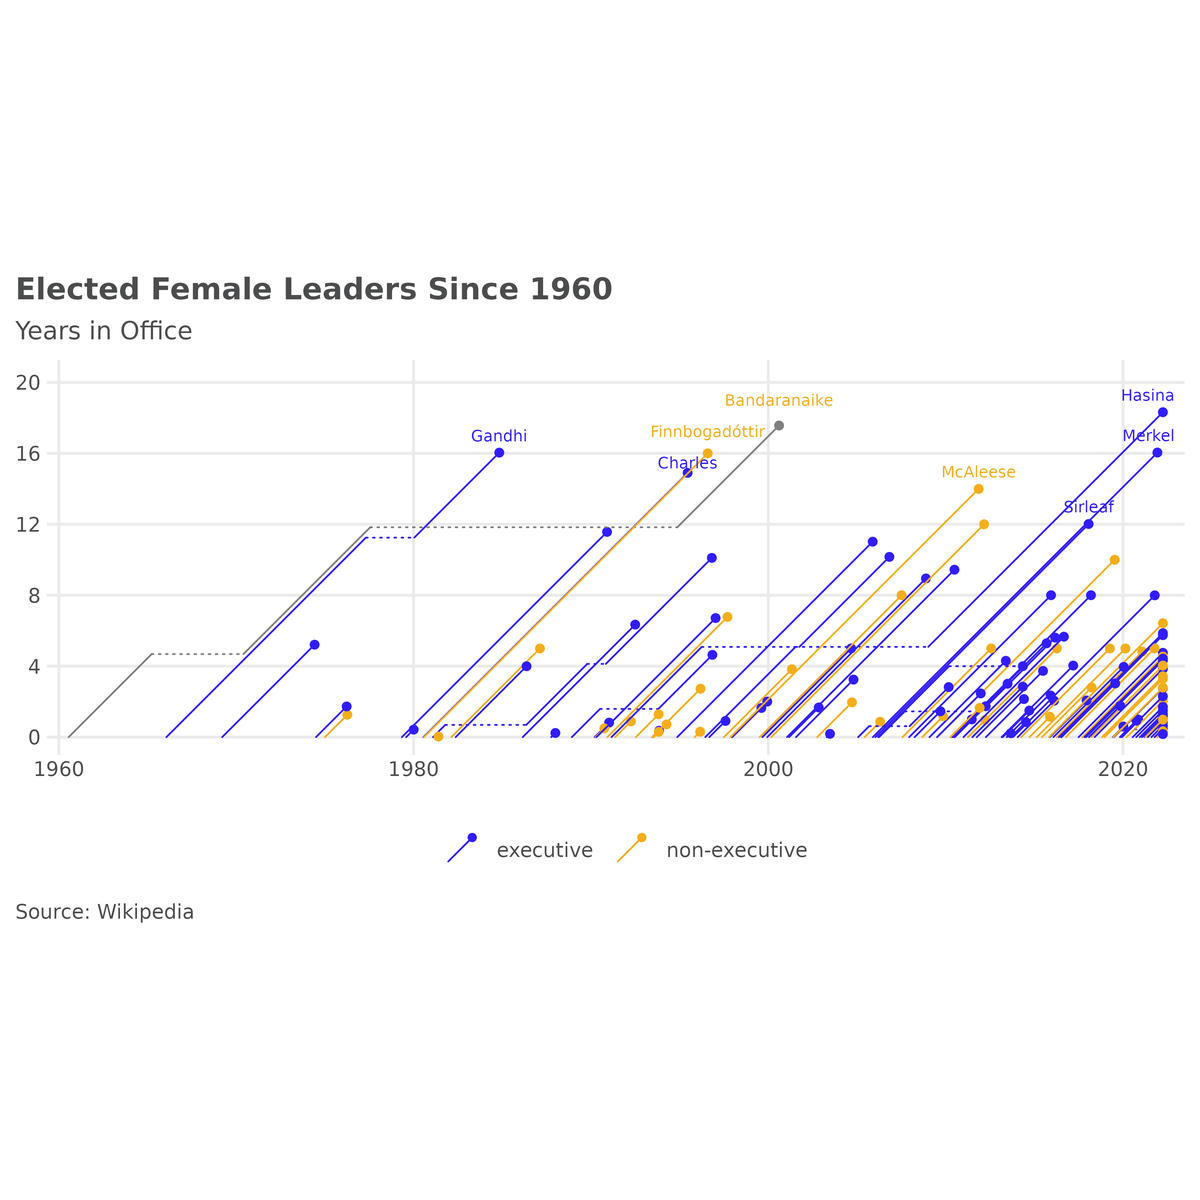
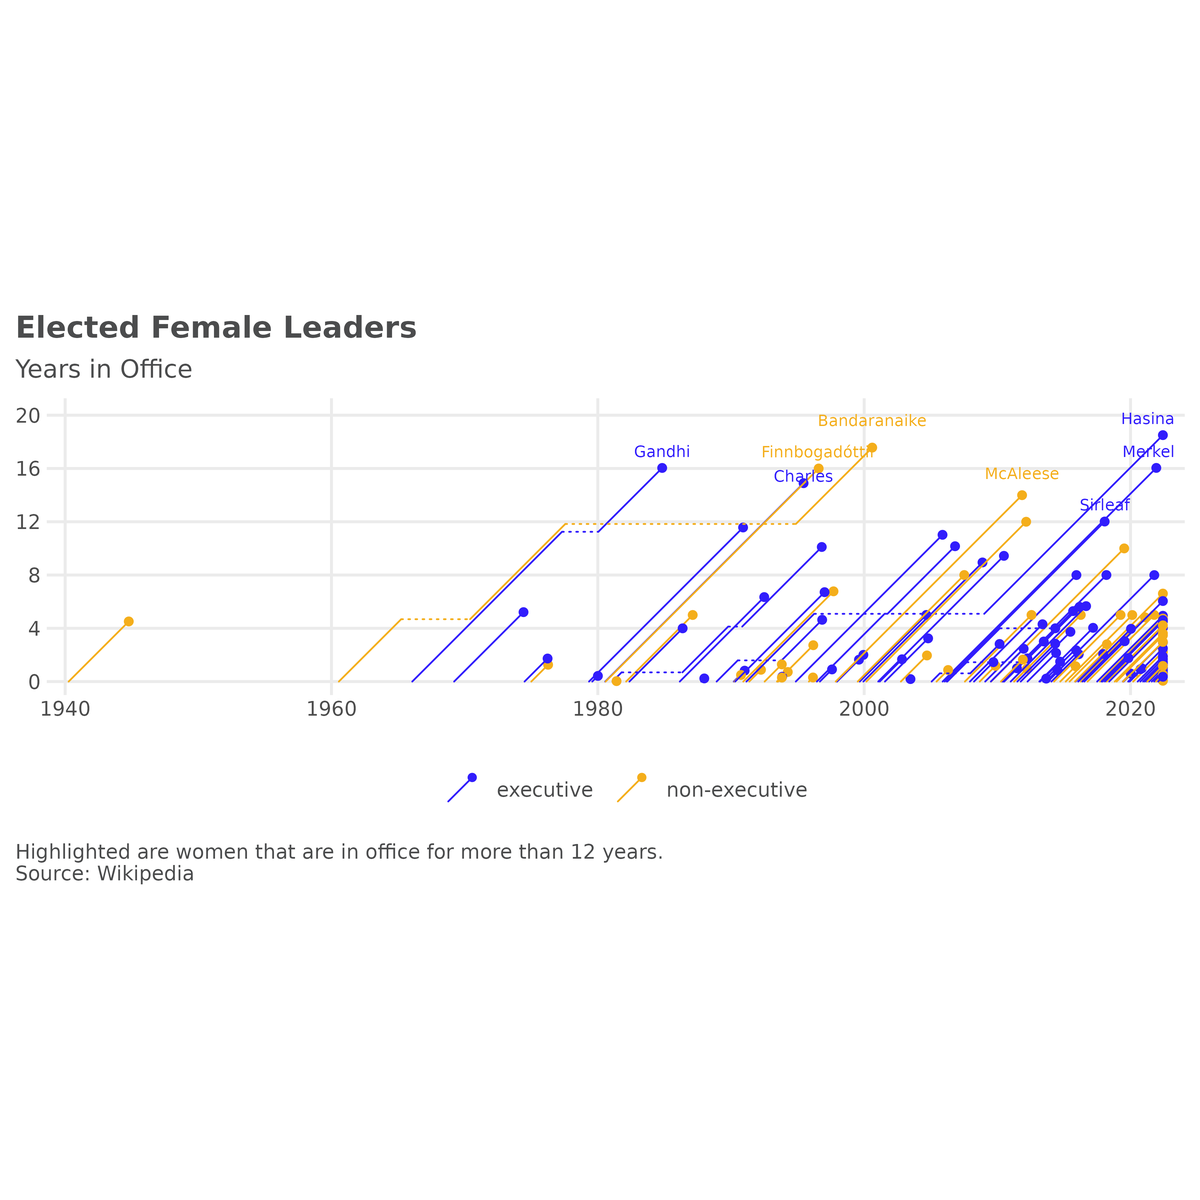
Built site for ggpointless: 0.0.1.9000@59ed15e

diff --git a/reference/ggpointless-package.html b/reference/ggpointless-package.html
@@ -1,7 +1,7 @@
 <!DOCTYPE html>
 <!-- Generated by pkgdown: do not edit by hand --><html lang="en"><head><meta http-equiv="Content-Type" content="text/html; charset=UTF-8"><meta charset="utf-8"><meta http-equiv="X-UA-Compatible" content="IE=edge"><meta name="viewport" content="width=device-width, initial-scale=1, shrink-to-fit=no"><meta name="description" content="
-A collection of new geometries, and stats for 'ggplot2'. geom_pointless() adds minimal emphasis to your plots making it easy to highlight some observations. This layer provides additional context. Or just some visual sugar. geom_lexis() draws a 45° lifeline of an event that mimics lexis diagrams."><title>ggpointless: A Small Collection of New Geometries, and Stats for 'ggplot2' — ggpointless-package • ggpointless</title><!-- favicons --><link rel="icon" type="image/png" sizes="16x16" href="../favicon-16x16.png"><link rel="icon" type="image/png" sizes="32x32" href="../favicon-32x32.png"><link rel="apple-touch-icon" type="image/png" sizes="180x180" href="../apple-touch-icon.png"><link rel="apple-touch-icon" type="image/png" sizes="120x120" href="../apple-touch-icon-120x120.png"><link rel="apple-touch-icon" type="image/png" sizes="76x76" href="../apple-touch-icon-76x76.png"><link rel="apple-touch-icon" type="image/png" sizes="60x60" href="../apple-touch-icon-60x60.png"><script src="../deps/jquery-3.6.0/jquery-3.6.0.min.js"></script><meta name="viewport" content="width=device-width, initial-scale=1, shrink-to-fit=no"><link href="../deps/bootstrap-5.1.0/bootstrap.min.css" rel="stylesheet"><script src="../deps/bootstrap-5.1.0/bootstrap.bundle.min.js"></script><link href="../deps/_Lato-0.4.1/font.css" rel="stylesheet"><link href="../deps/_Fira%20Code-0.4.1/font.css" rel="stylesheet"><!-- Font Awesome icons --><link rel="stylesheet" href="https://cdnjs.cloudflare.com/ajax/libs/font-awesome/5.12.1/css/all.min.css" integrity="sha256-mmgLkCYLUQbXn0B1SRqzHar6dCnv9oZFPEC1g1cwlkk=" crossorigin="anonymous"><link rel="stylesheet" href="https://cdnjs.cloudflare.com/ajax/libs/font-awesome/5.12.1/css/v4-shims.min.css" integrity="sha256-wZjR52fzng1pJHwx4aV2AO3yyTOXrcDW7jBpJtTwVxw=" crossorigin="anonymous"><!-- bootstrap-toc --><script src="https://cdn.rawgit.com/afeld/bootstrap-toc/v1.0.1/dist/bootstrap-toc.min.js"></script><!-- headroom.js --><script src="https://cdnjs.cloudflare.com/ajax/libs/headroom/0.11.0/headroom.min.js" integrity="sha256-AsUX4SJE1+yuDu5+mAVzJbuYNPHj/WroHuZ8Ir/CkE0=" crossorigin="anonymous"></script><script src="https://cdnjs.cloudflare.com/ajax/libs/headroom/0.11.0/jQuery.headroom.min.js" integrity="sha256-ZX/yNShbjqsohH1k95liqY9Gd8uOiE1S4vZc+9KQ1K4=" crossorigin="anonymous"></script><!-- clipboard.js --><script src="https://cdnjs.cloudflare.com/ajax/libs/clipboard.js/2.0.6/clipboard.min.js" integrity="sha256-inc5kl9MA1hkeYUt+EC3BhlIgyp/2jDIyBLS6k3UxPI=" crossorigin="anonymous"></script><!-- search --><script src="https://cdnjs.cloudflare.com/ajax/libs/fuse.js/6.4.6/fuse.js" integrity="sha512-zv6Ywkjyktsohkbp9bb45V6tEMoWhzFzXis+LrMehmJZZSys19Yxf1dopHx7WzIKxr5tK2dVcYmaCk2uqdjF4A==" crossorigin="anonymous"></script><script src="https://cdnjs.cloudflare.com/ajax/libs/autocomplete.js/0.38.0/autocomplete.jquery.min.js" integrity="sha512-GU9ayf+66Xx2TmpxqJpliWbT5PiGYxpaG8rfnBEk1LL8l1KGkRShhngwdXK1UgqhAzWpZHSiYPc09/NwDQIGyg==" crossorigin="anonymous"></script><script src="https://cdnjs.cloudflare.com/ajax/libs/mark.js/8.11.1/mark.min.js" integrity="sha512-5CYOlHXGh6QpOFA/TeTylKLWfB3ftPsde7AnmhuitiTX4K5SqCLBeKro6sPS8ilsz1Q4NRx3v8Ko2IBiszzdww==" crossorigin="anonymous"></script><!-- pkgdown --><script src="../pkgdown.js"></script><meta property="og:title" content="ggpointless: A Small Collection of New Geometries, and Stats for 'ggplot2' — ggpointless-package"><meta property="og:description" content="
-A collection of new geometries, and stats for 'ggplot2'. geom_pointless() adds minimal emphasis to your plots making it easy to highlight some observations. This layer provides additional context. Or just some visual sugar. geom_lexis() draws a 45° lifeline of an event that mimics lexis diagrams."><meta property="og:image" content="https://flrd.github.io/ggpointless/logo.png"><!-- mathjax --><script src="https://cdnjs.cloudflare.com/ajax/libs/mathjax/2.7.5/MathJax.js" integrity="sha256-nvJJv9wWKEm88qvoQl9ekL2J+k/RWIsaSScxxlsrv8k=" crossorigin="anonymous"></script><script src="https://cdnjs.cloudflare.com/ajax/libs/mathjax/2.7.5/config/TeX-AMS-MML_HTMLorMML.js" integrity="sha256-84DKXVJXs0/F8OTMzX4UR909+jtl4G7SPypPavF+GfA=" crossorigin="anonymous"></script><!--[if lt IE 9]>
+A collection of new geometries and stats for 'ggplot2'. geom_pointless() adds minimal emphasis to your plots making it easy to highlight some observations. This layer provides additional context. Or just some visual sugar. geom_lexis() draws a 45° lifeline of an event that mimics lexis diagrams."><title>ggpointless: A Small Collection of New Geometries, and Stats for 'ggplot2' — ggpointless-package • ggpointless</title><!-- favicons --><link rel="icon" type="image/png" sizes="16x16" href="../favicon-16x16.png"><link rel="icon" type="image/png" sizes="32x32" href="../favicon-32x32.png"><link rel="apple-touch-icon" type="image/png" sizes="180x180" href="../apple-touch-icon.png"><link rel="apple-touch-icon" type="image/png" sizes="120x120" href="../apple-touch-icon-120x120.png"><link rel="apple-touch-icon" type="image/png" sizes="76x76" href="../apple-touch-icon-76x76.png"><link rel="apple-touch-icon" type="image/png" sizes="60x60" href="../apple-touch-icon-60x60.png"><script src="../deps/jquery-3.6.0/jquery-3.6.0.min.js"></script><meta name="viewport" content="width=device-width, initial-scale=1, shrink-to-fit=no"><link href="../deps/bootstrap-5.1.0/bootstrap.min.css" rel="stylesheet"><script src="../deps/bootstrap-5.1.0/bootstrap.bundle.min.js"></script><link href="../deps/_Lato-0.4.1/font.css" rel="stylesheet"><link href="../deps/_Fira%20Code-0.4.1/font.css" rel="stylesheet"><!-- Font Awesome icons --><link rel="stylesheet" href="https://cdnjs.cloudflare.com/ajax/libs/font-awesome/5.12.1/css/all.min.css" integrity="sha256-mmgLkCYLUQbXn0B1SRqzHar6dCnv9oZFPEC1g1cwlkk=" crossorigin="anonymous"><link rel="stylesheet" href="https://cdnjs.cloudflare.com/ajax/libs/font-awesome/5.12.1/css/v4-shims.min.css" integrity="sha256-wZjR52fzng1pJHwx4aV2AO3yyTOXrcDW7jBpJtTwVxw=" crossorigin="anonymous"><!-- bootstrap-toc --><script src="https://cdn.rawgit.com/afeld/bootstrap-toc/v1.0.1/dist/bootstrap-toc.min.js"></script><!-- headroom.js --><script src="https://cdnjs.cloudflare.com/ajax/libs/headroom/0.11.0/headroom.min.js" integrity="sha256-AsUX4SJE1+yuDu5+mAVzJbuYNPHj/WroHuZ8Ir/CkE0=" crossorigin="anonymous"></script><script src="https://cdnjs.cloudflare.com/ajax/libs/headroom/0.11.0/jQuery.headroom.min.js" integrity="sha256-ZX/yNShbjqsohH1k95liqY9Gd8uOiE1S4vZc+9KQ1K4=" crossorigin="anonymous"></script><!-- clipboard.js --><script src="https://cdnjs.cloudflare.com/ajax/libs/clipboard.js/2.0.6/clipboard.min.js" integrity="sha256-inc5kl9MA1hkeYUt+EC3BhlIgyp/2jDIyBLS6k3UxPI=" crossorigin="anonymous"></script><!-- search --><script src="https://cdnjs.cloudflare.com/ajax/libs/fuse.js/6.4.6/fuse.js" integrity="sha512-zv6Ywkjyktsohkbp9bb45V6tEMoWhzFzXis+LrMehmJZZSys19Yxf1dopHx7WzIKxr5tK2dVcYmaCk2uqdjF4A==" crossorigin="anonymous"></script><script src="https://cdnjs.cloudflare.com/ajax/libs/autocomplete.js/0.38.0/autocomplete.jquery.min.js" integrity="sha512-GU9ayf+66Xx2TmpxqJpliWbT5PiGYxpaG8rfnBEk1LL8l1KGkRShhngwdXK1UgqhAzWpZHSiYPc09/NwDQIGyg==" crossorigin="anonymous"></script><script src="https://cdnjs.cloudflare.com/ajax/libs/mark.js/8.11.1/mark.min.js" integrity="sha512-5CYOlHXGh6QpOFA/TeTylKLWfB3ftPsde7AnmhuitiTX4K5SqCLBeKro6sPS8ilsz1Q4NRx3v8Ko2IBiszzdww==" crossorigin="anonymous"></script><!-- pkgdown --><script src="../pkgdown.js"></script><meta property="og:title" content="ggpointless: A Small Collection of New Geometries, and Stats for 'ggplot2' — ggpointless-package"><meta property="og:description" content="
+A collection of new geometries and stats for 'ggplot2'. geom_pointless() adds minimal emphasis to your plots making it easy to highlight some observations. This layer provides additional context. Or just some visual sugar. geom_lexis() draws a 45° lifeline of an event that mimics lexis diagrams."><meta property="og:image" content="https://flrd.github.io/ggpointless/logo.png"><!-- mathjax --><script src="https://cdnjs.cloudflare.com/ajax/libs/mathjax/2.7.5/MathJax.js" integrity="sha256-nvJJv9wWKEm88qvoQl9ekL2J+k/RWIsaSScxxlsrv8k=" crossorigin="anonymous"></script><script src="https://cdnjs.cloudflare.com/ajax/libs/mathjax/2.7.5/config/TeX-AMS-MML_HTMLorMML.js" integrity="sha256-84DKXVJXs0/F8OTMzX4UR909+jtl4G7SPypPavF+GfA=" crossorigin="anonymous"></script><!--[if lt IE 9]>
 <script src="https://oss.maxcdn.com/html5shiv/3.7.3/html5shiv.min.js"></script>
 <script src="https://oss.maxcdn.com/respond/1.4.2/respond.min.js"></script>
 <![endif]--></head><body>
@@ -58,7 +58,7 @@ A collection of new geometries, and stats for 'ggplot2'. geom_pointless() adds m
 
     <div class="ref-description section level2">
     <p><img src="figures/logo.png" align="right" alt="logo" width="120"></p>
-<p>A collection of new geometries, and stats for 'ggplot2'. geom_pointless() adds minimal emphasis to your plots making it easy to highlight some observations. This layer provides additional context. Or just some visual sugar. geom_lexis() draws a 45° lifeline of an event that mimics lexis diagrams.</p>
+<p>A collection of new geometries and stats for 'ggplot2'. geom_pointless() adds minimal emphasis to your plots making it easy to highlight some observations. This layer provides additional context. Or just some visual sugar. geom_lexis() draws a 45° lifeline of an event that mimics lexis diagrams.</p>
     </div>
 
 

diff --git a/articles/examples.html b/articles/examples.html
@@ -362,9 +362,17 @@
 <h2 id="female-leaders-of-independent-states">Female leaders of independent states<a class="anchor" aria-label="anchor" href="#female-leaders-of-independent-states"></a>
 </h2>
 <p>The data used here comes from the Wikipedia article <a href="https://en.wikipedia.org/w/index.php?title=List_of_elected_and_appointed_female_heads_of_state_and_government&amp;oldid=1078024588" class="external-link">List of elected and appointed female heads of state and government</a> and is collected in the dataset <code>female_leaders</code>.</p>
-<p>Before we plot, a bit of work needs to answer the question: which women are in office for more than 12 years?</p>
+<p>Before we plot, we want to answer the question: which women are in office for more than 12 years?</p>
 <div class="sourceCode" id="cb10"><pre class="downlit sourceCode r">
-<code class="sourceCode R"><span class="va">tmp</span> <span class="op">&lt;-</span> <span class="fu"><a href="https://rdrr.io/r/stats/aggregate.html" class="external-link">aggregate</a></span><span class="op">(</span>
+<code class="sourceCode R"><span class="co"># Sirimavo Bandaranaike was both in executive and non-executive position</span>
+<span class="co"># setting power to last observation by person</span>
+<span class="va">female_leaders</span> <span class="op">&lt;-</span> <span class="fu"><a href="https://rdrr.io/r/base/merge.html" class="external-link">merge</a></span><span class="op">(</span>
+  <span class="va">female_leaders</span><span class="op">[</span>, <span class="fu"><a href="https://rdrr.io/r/base/c.html" class="external-link">c</a></span><span class="op">(</span><span class="st">"name"</span>, <span class="st">"startdate"</span>, <span class="st">"enddate"</span>, <span class="st">"country"</span><span class="op">)</span>, <span class="op">]</span>,
+  <span class="fu"><a href="https://rdrr.io/r/stats/aggregate.html" class="external-link">aggregate</a></span><span class="op">(</span><span class="va">.</span> <span class="op">~</span> <span class="va">name</span>, <span class="va">female_leaders</span>, <span class="va">tail</span>, <span class="fl">1</span><span class="op">)</span><span class="op">[</span>, <span class="fu"><a href="https://rdrr.io/r/base/c.html" class="external-link">c</a></span><span class="op">(</span><span class="st">"name"</span>, <span class="st">"country"</span>, <span class="st">"power"</span><span class="op">)</span><span class="op">]</span>,
+  all.x <span class="op">=</span> <span class="cn">TRUE</span>
+<span class="op">)</span>
+
+<span class="va">tmp</span> <span class="op">&lt;-</span> <span class="fu"><a href="https://rdrr.io/r/stats/aggregate.html" class="external-link">aggregate</a></span><span class="op">(</span>
   <span class="va">days_in_office</span> <span class="op">~</span> <span class="va">name</span>,
   <span class="fu"><a href="https://rdrr.io/r/base/transform.html" class="external-link">transform</a></span><span class="op">(</span><span class="va">female_leaders</span>, days_in_office <span class="op">=</span> <span class="va">enddate</span> <span class="op">-</span> <span class="va">startdate</span><span class="op">)</span>,
   <span class="va">sum</span>
@@ -381,11 +389,11 @@
   FUN <span class="op">=</span> <span class="kw">function</span><span class="op">(</span><span class="va">name</span><span class="op">)</span> <span class="va">name</span><span class="op">[</span><span class="fu"><a href="https://rdrr.io/r/base/length.html" class="external-link">length</a></span><span class="op">(</span><span class="va">name</span><span class="op">)</span><span class="op">]</span>,
   FUN.VALUE <span class="op">=</span> <span class="fu"><a href="https://rdrr.io/r/base/character.html" class="external-link">character</a></span><span class="op">(</span><span class="fl">1</span><span class="op">)</span>
 <span class="op">)</span></code></pre></div>
-<p>The inspiration to add <code><a href="../reference/geom_lexis.html">geom_lexis()</a></code> came again from <a href="https://github.com/gka" class="external-link">Gregor Aisch</a>. This time from his post on <a href="https://blog.datawrapper.de/longest-terms-european-leaders/" class="external-link">Three decades of European government leaders</a>. Let’s see how close we can get with our example to the original.</p>
+<p>The inspiration to add <code><a href="../reference/geom_lexis.html">geom_lexis()</a></code> came again from <a href="https://github.com/gka" class="external-link">Gregor Aisch</a>. This time from his post on <a href="https://blog.datawrapper.de/longest-terms-european-leaders/" class="external-link">Three decades of European government leaders</a>. Let’s see how close we can get with our example data to the original plot.</p>
 <details><p><summary><b>See full code</b></summary></p>
 <div class="sourceCode" id="cb11"><pre class="downlit sourceCode r">
 <code class="sourceCode R"><span class="va">p3</span> <span class="op">&lt;-</span> <span class="fu"><a href="https://ggplot2.tidyverse.org/reference/ggplot.html" class="external-link">ggplot</a></span><span class="op">(</span>
-  <span class="fu"><a href="https://rdrr.io/r/base/subset.html" class="external-link">subset</a></span><span class="op">(</span><span class="va">female_leaders</span>, <span class="va">startdate</span> <span class="op">&gt;</span> <span class="st">"1960-01-01"</span><span class="op">)</span>,
+  <span class="va">female_leaders</span>,
   <span class="fu"><a href="https://ggplot2.tidyverse.org/reference/aes.html" class="external-link">aes</a></span><span class="op">(</span>
     x <span class="op">=</span> <span class="va">startdate</span>,
     xend <span class="op">=</span> <span class="va">enddate</span>,
@@ -415,9 +423,9 @@
 
 <span class="co"># title, subtitle, caption</span>
 <span class="va">p3</span> <span class="op">&lt;-</span> <span class="va">p3</span> <span class="op">+</span> <span class="fu"><a href="https://ggplot2.tidyverse.org/reference/labs.html" class="external-link">labs</a></span><span class="op">(</span>
-  title <span class="op">=</span> <span class="st">"Elected Female Leaders Since 1960"</span>,
+  title <span class="op">=</span> <span class="st">"Elected Female Leaders"</span>,
   subtitle <span class="op">=</span> <span class="st">"Years in Office"</span>,
-  caption <span class="op">=</span> <span class="st">"Source: Wikipedia"</span>,
+  caption <span class="op">=</span> <span class="st">"Highlighted are women that are in office for more than 12 years.\nSource: Wikipedia"</span>,
   x <span class="op">=</span> <span class="cn">NULL</span>,
   y <span class="op">=</span> <span class="cn">NULL</span>,
   color <span class="op">=</span> <span class="cn">NULL</span>

diff --git a/index.html b/index.html
@@ -5,7 +5,7 @@
 <meta charset="utf-8">
 <meta http-equiv="X-UA-Compatible" content="IE=edge">
 <meta name="viewport" content="width=device-width, initial-scale=1, shrink-to-fit=no">
-<meta name="description" content="A collection of new geometries, and stats for
+<meta name="description" content="A collection of new geometries and stats for
     ggplot2. geom_pointless() adds minimal emphasis to your 
     plots making it easy to highlight some observations. This
     layer provides additional context. Or just some visual sugar. 
@@ -27,7 +27,7 @@
 <link rel="stylesheet" href="https://cdnjs.cloudflare.com/ajax/libs/font-awesome/5.12.1/css/v4-shims.min.css" integrity="sha256-wZjR52fzng1pJHwx4aV2AO3yyTOXrcDW7jBpJtTwVxw=" crossorigin="anonymous">
 <!-- bootstrap-toc --><script src="https://cdn.rawgit.com/afeld/bootstrap-toc/v1.0.1/dist/bootstrap-toc.min.js"></script><!-- headroom.js --><script src="https://cdnjs.cloudflare.com/ajax/libs/headroom/0.11.0/headroom.min.js" integrity="sha256-AsUX4SJE1+yuDu5+mAVzJbuYNPHj/WroHuZ8Ir/CkE0=" crossorigin="anonymous"></script><script src="https://cdnjs.cloudflare.com/ajax/libs/headroom/0.11.0/jQuery.headroom.min.js" integrity="sha256-ZX/yNShbjqsohH1k95liqY9Gd8uOiE1S4vZc+9KQ1K4=" crossorigin="anonymous"></script><!-- clipboard.js --><script src="https://cdnjs.cloudflare.com/ajax/libs/clipboard.js/2.0.6/clipboard.min.js" integrity="sha256-inc5kl9MA1hkeYUt+EC3BhlIgyp/2jDIyBLS6k3UxPI=" crossorigin="anonymous"></script><!-- search --><script src="https://cdnjs.cloudflare.com/ajax/libs/fuse.js/6.4.6/fuse.js" integrity="sha512-zv6Ywkjyktsohkbp9bb45V6tEMoWhzFzXis+LrMehmJZZSys19Yxf1dopHx7WzIKxr5tK2dVcYmaCk2uqdjF4A==" crossorigin="anonymous"></script><script src="https://cdnjs.cloudflare.com/ajax/libs/autocomplete.js/0.38.0/autocomplete.jquery.min.js" integrity="sha512-GU9ayf+66Xx2TmpxqJpliWbT5PiGYxpaG8rfnBEk1LL8l1KGkRShhngwdXK1UgqhAzWpZHSiYPc09/NwDQIGyg==" crossorigin="anonymous"></script><script src="https://cdnjs.cloudflare.com/ajax/libs/mark.js/8.11.1/mark.min.js" integrity="sha512-5CYOlHXGh6QpOFA/TeTylKLWfB3ftPsde7AnmhuitiTX4K5SqCLBeKro6sPS8ilsz1Q4NRx3v8Ko2IBiszzdww==" crossorigin="anonymous"></script><!-- pkgdown --><script src="pkgdown.js"></script><meta property="og:title" content="A Small Collection of New Geometries, and Stats 
     for ggplot2">
-<meta property="og:description" content="A collection of new geometries, and stats for
+<meta property="og:description" content="A collection of new geometries and stats for
     ggplot2. geom_pointless() adds minimal emphasis to your 
     plots making it easy to highlight some observations. This
     layer provides additional context. Or just some visual sugar. 
@@ -97,7 +97,7 @@
 </h1>
 </div>
 <!-- badges: start -->
-<p><code>ggpointless</code> is an extension of the <a href="https://ggplot2.tidyverse.org/" class="external-link"><code>ggplot2</code></a> library providing additional layers. The following functions are implemented in this small package:</p>
+<!-- badges: end --><p><code>ggpointless</code> is an extension of the <a href="https://ggplot2.tidyverse.org/" class="external-link"><code>ggplot2</code></a> library providing additional layers. The following functions are implemented in this small package:</p>
 <ul>
 <li><p><code><a href="reference/geom_pointless.html">geom_pointless()</a></code> / <code><a href="reference/geom_pointless.html">stat_pointless()</a></code>: functions that are making it easy to add minimal emphasis to your plots by means of a point layer.</p></li>
 <li><p><code><a href="reference/geom_lexis.html">geom_lexis()</a></code> / <code><a href="reference/geom_lexis.html">stat_lexis()</a></code>: a layer to plot a 45° ‘lifeline’ of an event</p></li>
@@ -144,7 +144,7 @@
 <div class="section level3">
 <h3 id="geom_lexis">geom_lexis<a class="anchor" aria-label="anchor" href="#geom_lexis"></a>
 </h3>
-<p><code><a href="reference/geom_lexis.html">geom_lexis()</a></code> is a combination of a segment and a point layer. Given a start value and an end value, this functions draws a 45° line which indicates the duration of an event. The geom requires an <code>x</code> and and an <code>xend</code> aesthetic and calculated the <code>y</code> and <code>yend</code> coordinates for you.</p>
+<p><code><a href="reference/geom_lexis.html">geom_lexis()</a></code> is a combination of a segment and a point layer. Given a start value and an end value, this geom draws a 45° line which indicates the duration of an event. Required are <code>x</code> and <code>xend</code> aesthetics, <code>y</code> and <code>yend</code> coordinates will be calculated for you.</p>
 <div class="sourceCode" id="cb4"><pre class="downlit sourceCode r">
 <code class="sourceCode R"><span class="va">df2</span> <span class="op">&lt;-</span> <span class="fu"><a href="https://rdrr.io/r/base/data.frame.html" class="external-link">data.frame</a></span><span class="op">(</span>
   key <span class="op">=</span> <span class="fu"><a href="https://rdrr.io/r/base/c.html" class="external-link">c</a></span><span class="op">(</span><span class="st">"A"</span>, <span class="st">"B"</span>, <span class="st">"B"</span>, <span class="st">"C"</span>, <span class="st">"D"</span><span class="op">)</span>,
@@ -222,10 +222,9 @@
 <div class="dev-status">
 <h2 data-toc-skip>Dev status</h2>
 <ul class="list-unstyled">
-<li><a href="https://app.codecov.io/gh/flrd/ggpointless?branch=main" class="external-link"><img src="https://codecov.io/gh/flrd/ggpointless/branch/main/graph/badge.svg" alt="Codecov test coverage"></a></li>
+<li><a href="https://CRAN.R-project.org/package=ggpointless" class="external-link"><img src="https://www.r-pkg.org/badges/version/ggpointless" alt="CRAN status"></a></li>
 <li><a href="https://github.com/flrd/ggpointless/actions" class="external-link"><img src="https://github.com/flrd/ggpointless/workflows/R-CMD-check/badge.svg" alt="R-CMD-check"></a></li>
-<li><a href="https://cran.r-project.org/package=ggpointless" class="external-link"><img src="https://www.r-pkg.org/badges/version/ggpointless" alt="CRAN_Status_Badge"></a></li>
-<li><a href="http://www.r-pkg.org/pkg/ggpointless" class="external-link"><img src="http://cranlogs.r-pkg.org/badges/ggpointless" alt="Downloads"></a></li>
+<li><a href="https://app.codecov.io/gh/flrd/ggpointless?branch=main" class="external-link"><img src="https://codecov.io/gh/flrd/ggpointless/branch/main/graph/badge.svg" alt="Codecov test coverage"></a></li>
 </ul>
 </div>
 

diff --git a/articles/ggpointless.html b/articles/ggpointless.html
@@ -227,7 +227,7 @@
 <div class="section level2">
 <h2 id="plotting-lifelines-with-geom_lexis">Plotting lifelines with geom_lexis<a class="anchor" aria-label="anchor" href="#plotting-lifelines-with-geom_lexis"></a>
 </h2>
-<p><code><a href="../reference/geom_lexis.html">geom_lexis()</a></code> draws a lifeline for an event from it’s start to it’s end. The required aesthetics are <code>x</code> and <code>xend</code>. Here is an fexample:</p>
+<p><code><a href="../reference/geom_lexis.html">geom_lexis()</a></code> draws a lifeline for an event from it’s start to it’s end. The required aesthetics are <code>x</code> and <code>xend</code>. Here is an example:</p>
 <div class="sourceCode" id="cb9"><pre class="downlit sourceCode r">
 <code class="sourceCode R"><span class="va">df1</span> <span class="op">&lt;-</span> <span class="fu"><a href="https://rdrr.io/r/base/data.frame.html" class="external-link">data.frame</a></span><span class="op">(</span>
   key <span class="op">=</span> <span class="fu"><a href="https://rdrr.io/r/base/c.html" class="external-link">c</a></span><span class="op">(</span><span class="st">"A"</span>, <span class="st">"B"</span>, <span class="st">"B"</span>, <span class="st">"C"</span>, <span class="st">"D"</span><span class="op">)</span>,
@@ -288,7 +288,7 @@
 
 <span class="va">p1</span>; <span class="va">p2</span></code></pre></div>
 <p><img src="ggpointless_files/figure-html/dates%20and%20times-1.png" width="962.5"><img src="ggpointless_files/figure-html/dates%20and%20times-2.png" width="962.5"></p>
-<p>In order to change the breaks and labels of the y-scale in the left of the previous plots to, say, years, we make the assumption that 1 year has 365.25 days, or 365.25 * 86400 seconds.</p>
+<p>In order to change the breaks and labels of the vertical scale to, say, years, we make the assumption that 1 year has 365.25 days, or 365.25 * 86400 seconds.</p>
 <div class="sourceCode" id="cb14"><pre class="downlit sourceCode r">
 <code class="sourceCode R"><span class="co"># years, roughly</span>
 <span class="va">p1</span> <span class="op">+</span>
